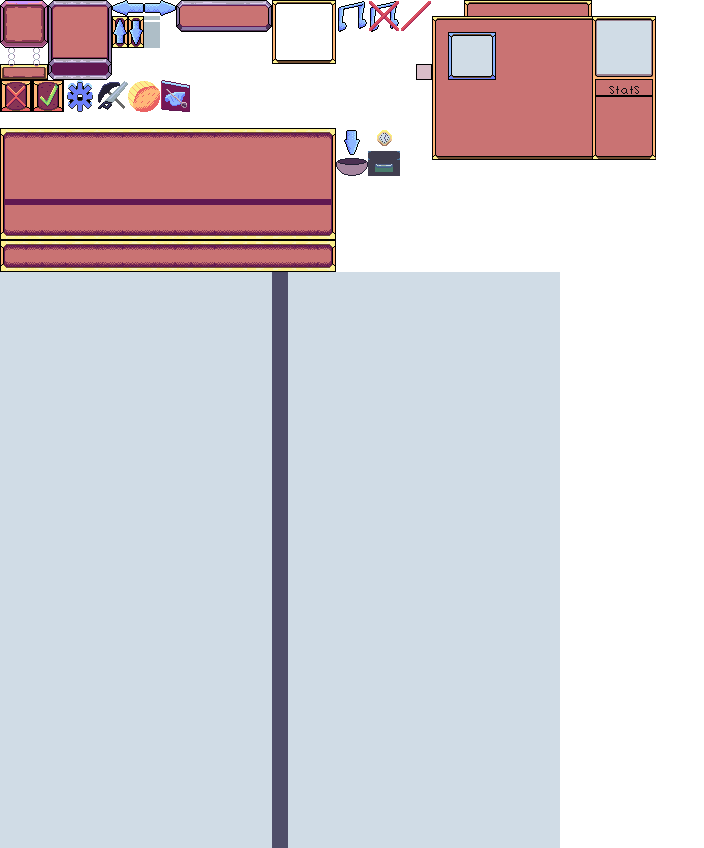
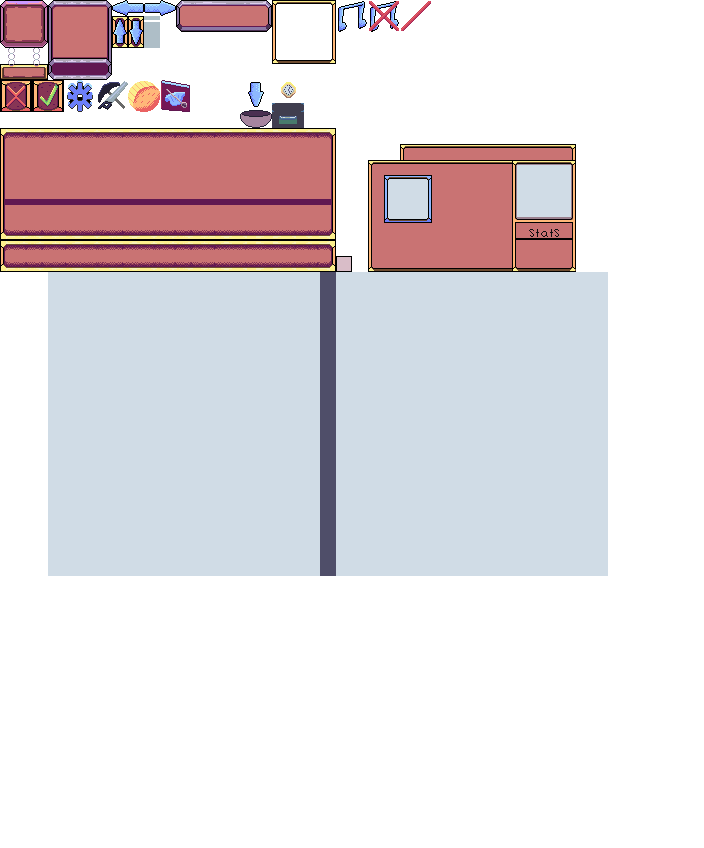
working on recipe book

diff --git a/UIEngine/Classes/RecipeStuff/RecipeBook.cs b/UIEngine/Classes/RecipeStuff/RecipeBook.cs
@@ -1,4 +1,7 @@
-using Globals.Classes.Helpers;
+using DataModels;
+using Globals.Classes;
+using Globals.Classes.Helpers;
+using ItemEngine.Classes;
 using Microsoft.Xna.Framework;
 using Microsoft.Xna.Framework.Content;
 using Microsoft.Xna.Framework.Graphics;
@@ -13,36 +16,85 @@ namespace UIEngine.Classes.RecipeStuff
 {
     public class RecipeBook : InterfaceSection
     {
-        private Rectangle _backGroundSourceRectangle = new Rectangle(0, 272, 560, 576);
+        private Rectangle _backGroundSourceRectangle = new Rectangle(48, 272, 560, 288);
 
         private Sprite _backGroundSprite;
 
+        private int _recipesPerPage = 2;
         private RecipePage _recipePageLeft;
         private RecipePage _recipePageRight;
+
+        private List<RecipeInfo> _availableRecipes;
+        private Vector2 _scale = new Vector2(2f, 2f);
         public RecipeBook(InterfaceSection interfaceSection, GraphicsDevice graphicsDevice,
             ContentManager content, Vector2? position, float layerDepth) :
             base(interfaceSection, graphicsDevice, content, position, layerDepth)
         {
+           
+            _availableRecipes = new List<RecipeInfo>();
         }
 
         public override void LoadContent()
         {
             NormallyActivated = false;
-            Position = RectangleHelper.CenterRectangleOnScreen(_backGroundSourceRectangle);
-            Position = new Vector2(Position.X, Position.Y - 48);
-            _backGroundSprite = SpriteFactory.CreateUISprite(Position, _backGroundSourceRectangle, UI.ButtonTexture, GetLayeringDepth(UILayeringDepths.Low));
-            TotalBounds = new Rectangle((int)Position.X, (int)Position.Y, _backGroundSourceRectangle.Width, _backGroundSourceRectangle.Height);
+           // _scale = Vector2Helper.GetScaleFromRequiredDimensions(_backGroundSourceRectangle, Settings.GetScreenRectangle());
+            Position = RectangleHelper.CenterRectangleOnScreen(new Rectangle(_backGroundSourceRectangle.X, _backGroundSourceRectangle.Y,
+                _backGroundSourceRectangle.Width * (int)_scale.X, _backGroundSourceRectangle.Height * (int)_scale.Y));
+
+            Position = new Vector2(Position.X, Position.Y - 32);
+            _backGroundSprite = SpriteFactory.CreateUISprite(Position, _backGroundSourceRectangle,
+                UI.ButtonTexture, GetLayeringDepth(UILayeringDepths.Low), scale: _scale);
+
+            TotalBounds = new Rectangle((int)Position.X, (int)Position.Y,
+                _backGroundSourceRectangle.Width * (int)_scale.X, _backGroundSourceRectangle.Height * (int)_scale.Y);
 
             _recipePageLeft = new RecipePage(this, graphics, content, Position, GetLayeringDepth(UILayeringDepths.Low));
-            _recipePageRight = new RecipePage(this, graphics, content, Position, GetLayeringDepth(UILayeringDepths.Low));
-
+            _recipePageRight = new RecipePage(this, graphics, content, new Vector2(Position.X + TotalBounds.Width / 2, Position.Y), GetLayeringDepth(UILayeringDepths.Low));
+            FillRecipePages();
+            _recipePageLeft.LoadContent();
+            _recipePageRight.LoadContent();
+            
             base.LoadContent();
 
         }
 
-        public void LoadAvailableRecipes(Dictionary<int, bool> playerUnlockedRecipes)
+        public void LoadAvailableRecipes(List<int> playerUnlockedRecipes)
         {
+            _availableRecipes = new List<RecipeInfo>();
 
+            for (int i =0; i < playerUnlockedRecipes.Count; i++)
+            {
+                RecipeInfo info = ItemFactory.GetItemData(playerUnlockedRecipes[i]).RecipeInfo;
+                _availableRecipes.Add(info);
+
+
+            }
+
+ 
+        }
+
+        private void FillRecipePages()
+        {
+            List<RecipeInfo> recipesLeftPage = new List<RecipeInfo>();
+            List<RecipeInfo> recpesRightPage = new List<RecipeInfo>();
+
+            for (int i = 0; i < _availableRecipes.Count; i++)
+            {
+
+                if (i < _recipesPerPage)
+                {
+                    recipesLeftPage.Add(_availableRecipes[i]);
+                }
+                else
+                {
+                    recpesRightPage.Add(_availableRecipes[i]);
+                }
+
+
+            }
+
+            _recipePageLeft.LoadRecipes(recipesLeftPage);
+            _recipePageRight.LoadRecipes(recpesRightPage);
         }
 
         public override void Update(GameTime gameTime)

diff --git a/UIEngine/Classes/RecipeStuff/RecipePage.cs b/UIEngine/Classes/RecipeStuff/RecipePage.cs
@@ -24,32 +24,47 @@ namespace UIEngine.Classes.RecipeStuff
             base(interfaceSection, graphicsDevice, content, position, layerDepth)
         {
             _panels = new List<RecipePanel>();
+            Position = new Vector2(position.Value.X + 64, position.Value.Y + 32);
+
+        }
+        public override void Update(GameTime gameTime)
+        {
+            base.Update(gameTime);
+        }
+        public override void Draw(SpriteBatch spriteBatch)
+        {
+            base.Draw(spriteBatch);
+
         }
 
         public override void LoadContent()
         {
             _width = parentSection.Width;
-            _stackPanel = new StackPanel(this, graphics, content, Position, GetLayeringDepth(UILayeringDepths.Low));
 
-            foreach(RecipePanel info in _panels)
+            foreach(RecipePanel recipePanel in _panels)
             {
+                recipePanel.LoadContent();
                 StackRow stackRow = new StackRow(_width);
-                stackRow.AddItem(info, StackOrientation.Left);
+                stackRow.AddItem(recipePanel, StackOrientation.Left);
                 _stackPanel.Add(stackRow);
 
             }
 
-
+            TotalBounds = new Rectangle((int)Position.X, (int)Position.Y, parentSection.Width / 2, parentSection.Height);
             base.LoadContent();
 
         }
 
         public void LoadRecipes(List<RecipeInfo> recipeInfo)
         {
-            foreach(RecipeInfo recipe in recipeInfo)
+            _stackPanel = new StackPanel(this, graphics, content, Position, GetLayeringDepth(UILayeringDepths.Low));
+
+            foreach (RecipeInfo recipe in recipeInfo)
             {
                 _panels.Add(new RecipePanel(_stackPanel, graphics, content, Position, GetLayeringDepth(UILayeringDepths.Low)));
             }
         }
+
+        
     }
 }

diff --git a/EntityEngine/Classes/PlayerStuff/ProgressManager.cs b/EntityEngine/Classes/PlayerStuff/ProgressManager.cs
@@ -16,11 +16,11 @@ namespace EntityEngine.Classes.PlayerStuff
     /// </summary>
     internal class ProgressManager : ISaveable
     {
-        public Dictionary<int,bool> UnlockedRecipes { get; private set; }
+        public List<int> UnlockedRecipes { get; private set; }
 
         public ProgressManager()
         {
-            UnlockedRecipes = new Dictionary<int, bool>();
+            UnlockedRecipes = new List<int>();
 
         }
         public void LoadContent()
@@ -31,10 +31,10 @@ namespace EntityEngine.Classes.PlayerStuff
         }
         public void UnlockRecipe(int id)
         {
-            if (UnlockedRecipes.ContainsKey(id))
+            if (UnlockedRecipes.Contains(id))
                 throw new Exception($"Recipe already unlocked");
 
-            UnlockedRecipes.Add(id, true);
+            UnlockedRecipes.Add(id);
         }
 
         public void Save(BinaryWriter writer)
@@ -42,8 +42,7 @@ namespace EntityEngine.Classes.PlayerStuff
             writer.Write(UnlockedRecipes.Count);
             foreach(var item in UnlockedRecipes)
             {
-                writer.Write(item.Key);
-                writer.Write(item.Value); 
+                writer.Write(item);
             }
         }
 
@@ -52,7 +51,7 @@ namespace EntityEngine.Classes.PlayerStuff
             CleanUp();
             int unlockedRecipeCount = reader.ReadInt32();
             for(int i = 0; i < unlockedRecipeCount; i++)
-                UnlockedRecipes.Add(reader.ReadInt32(), reader.ReadBoolean());
+                UnlockedRecipes.Add(reader.ReadInt32());
         }
 
         public void CleanUp()

diff --git a/UIEngine/Classes/RecipeStuff/RecipePanel.cs b/UIEngine/Classes/RecipeStuff/RecipePanel.cs
@@ -13,7 +13,9 @@ namespace UIEngine.Classes.RecipeStuff
 {
     internal class RecipePanel : InterfaceSection
     {
-        private static readonly Rectangle _backGroundSourceRectangle = new Rectangle(420, 0, 224, 160);
+        private static readonly Rectangle s_backGroundSourceRectangle = new Rectangle(368, 144, 208, 128);
+        private static readonly Vector2 s_scale = new Vector2(2f, 2f);
+
         private Sprite _backGroundSprite; 
         private RecipeInfo _recipeInfo;
         public RecipePanel(InterfaceSection interfaceSection, GraphicsDevice graphicsDevice,
@@ -29,7 +31,8 @@ namespace UIEngine.Classes.RecipeStuff
         public override void LoadContent()
         {
             _backGroundSprite = SpriteFactory.CreateUISprite(Position,
-                _backGroundSourceRectangle, UI.ButtonTexture, GetLayeringDepth(UILayeringDepths.Low));
+                s_backGroundSourceRectangle, UI.ButtonTexture, GetLayeringDepth(UILayeringDepths.Low), scale: s_scale);
+            TotalBounds = new Rectangle((int)Position.X, (int)Position.Y, _backGroundSprite.Width * (int)s_scale.X, _backGroundSprite.Height * (int)s_scale.Y);
             base.LoadContent();
         }
 

diff --git a/Globals/Classes/Helpers/RectangleHelper.cs b/Globals/Classes/Helpers/RectangleHelper.cs
@@ -14,7 +14,7 @@ namespace Globals.Classes.Helpers
         {
             scale = scale ?? Settings.GameScale;
             Vector2 centerScreen = Settings.CenterScreen;
-            Vector2 returnVal = new Vector2(centerScreen.X - rectangle.Width * (float)scale / 2, centerScreen.Y - rectangle.Height / 2 * (float)scale);
+            Vector2 returnVal = new Vector2(centerScreen.X + Settings.BarWidth - rectangle.Width * (float)scale / 2, centerScreen.Y + Settings.BarHeight - rectangle.Height / 2 * (float)scale);
             return returnVal;
         }
         public static Vector2 CenterRectangleOnScreen(int width, int height, float? scale = null)

diff --git a/UIEngine/Classes/UI.cs b/UIEngine/Classes/UI.cs
@@ -135,7 +135,7 @@ namespace UIEngine.Classes
         }
         public static void LoadPlayerInventory(StorageContainer playerStorageContainer) => ToolBar.Load(playerStorageContainer);
     
-        public static void LoadPlayerUnlockedRecipes(Dictionary<int, bool> playerUnlockedrecipes) => RecipeBook.LoadAvailableRecipes(playerUnlockedrecipes);
+        public static void LoadPlayerUnlockedRecipes(List<int> playerUnlockedrecipes) => RecipeBook.LoadAvailableRecipes(playerUnlockedrecipes);
         private static void LoadCurrentSection()
         {
             foreach (InterfaceSection section in s_activeSections)

diff --git a/UIEngine/Classes/MainMenuStuff/OuterMenuStuff/CreateNewGameStuff/CreateNewSaveMenu.cs b/UIEngine/Classes/MainMenuStuff/OuterMenuStuff/CreateNewGameStuff/CreateNewSaveMenu.cs
@@ -104,6 +104,11 @@ namespace UIEngine.Classes.MainMenuStuff.OuterMenuStuff.CreateNewGameStuff
 
         private void CreateNewSaveAction()
         {
+            Dictionary<string, SaveFile> saveFiles = SaveLoadManager.SaveFiles;
+
+            if (saveFiles.Keys.Contains(_nameTypingBox.CurrentString)){
+                return;
+            }
             SaveLoadManager.CreateNewSave(_nameTypingBox.CurrentString);
             SaveLoadManager.SetCurrentSave(_nameTypingBox.CurrentString);
             Flags.IsNewGame = true;

diff --git a/ItemEngine/Classes/ItemFactory.cs b/ItemEngine/Classes/ItemFactory.cs
@@ -59,6 +59,12 @@ namespace ItemEngine.Classes
                 return ItemDictionary[name];
             return null;
         }
+        public static ItemData GetItemData(int id)
+        {
+            if (DoesItemExist(id))
+                return IntItemDictionary[id];
+            return null;
+        }
         public static Item GetItem(int id)
         {
             if (DoesItemExist(id))
